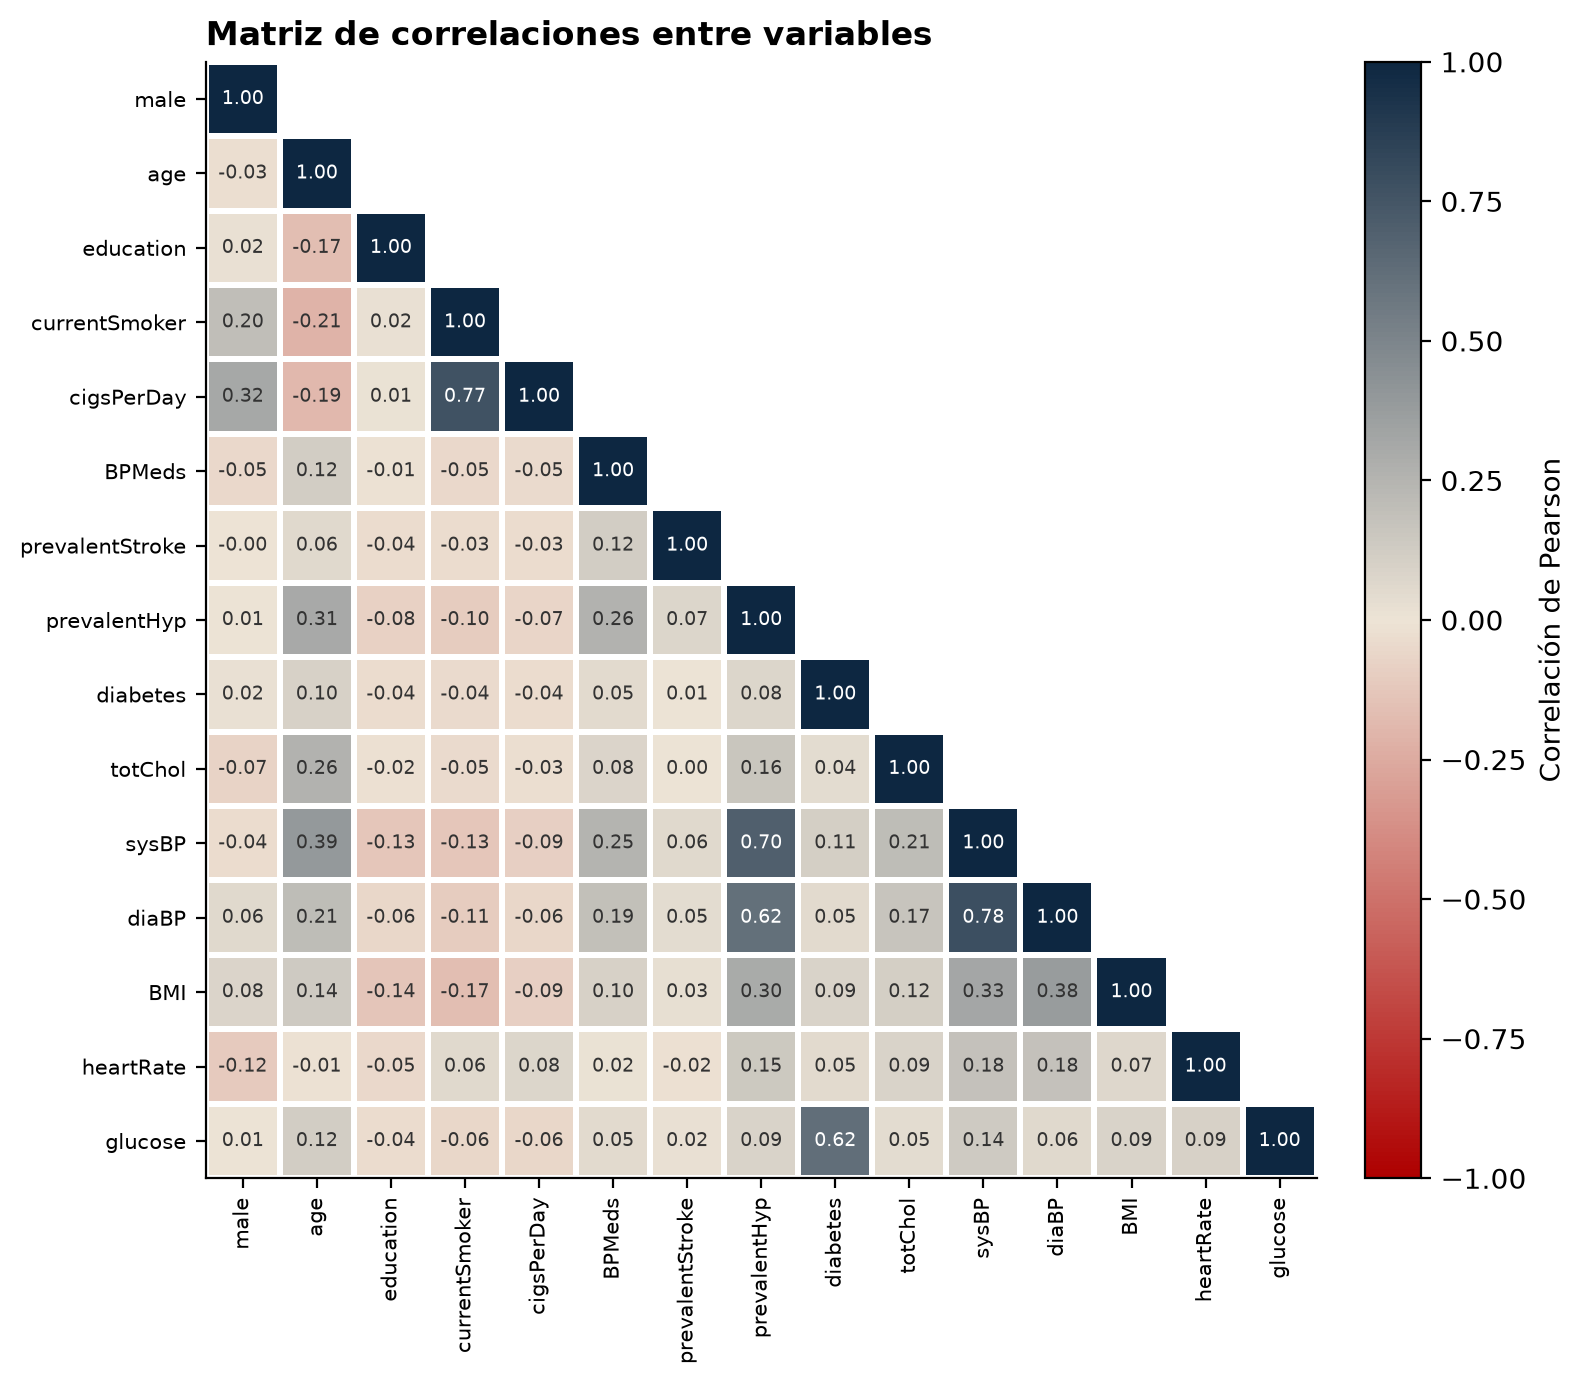
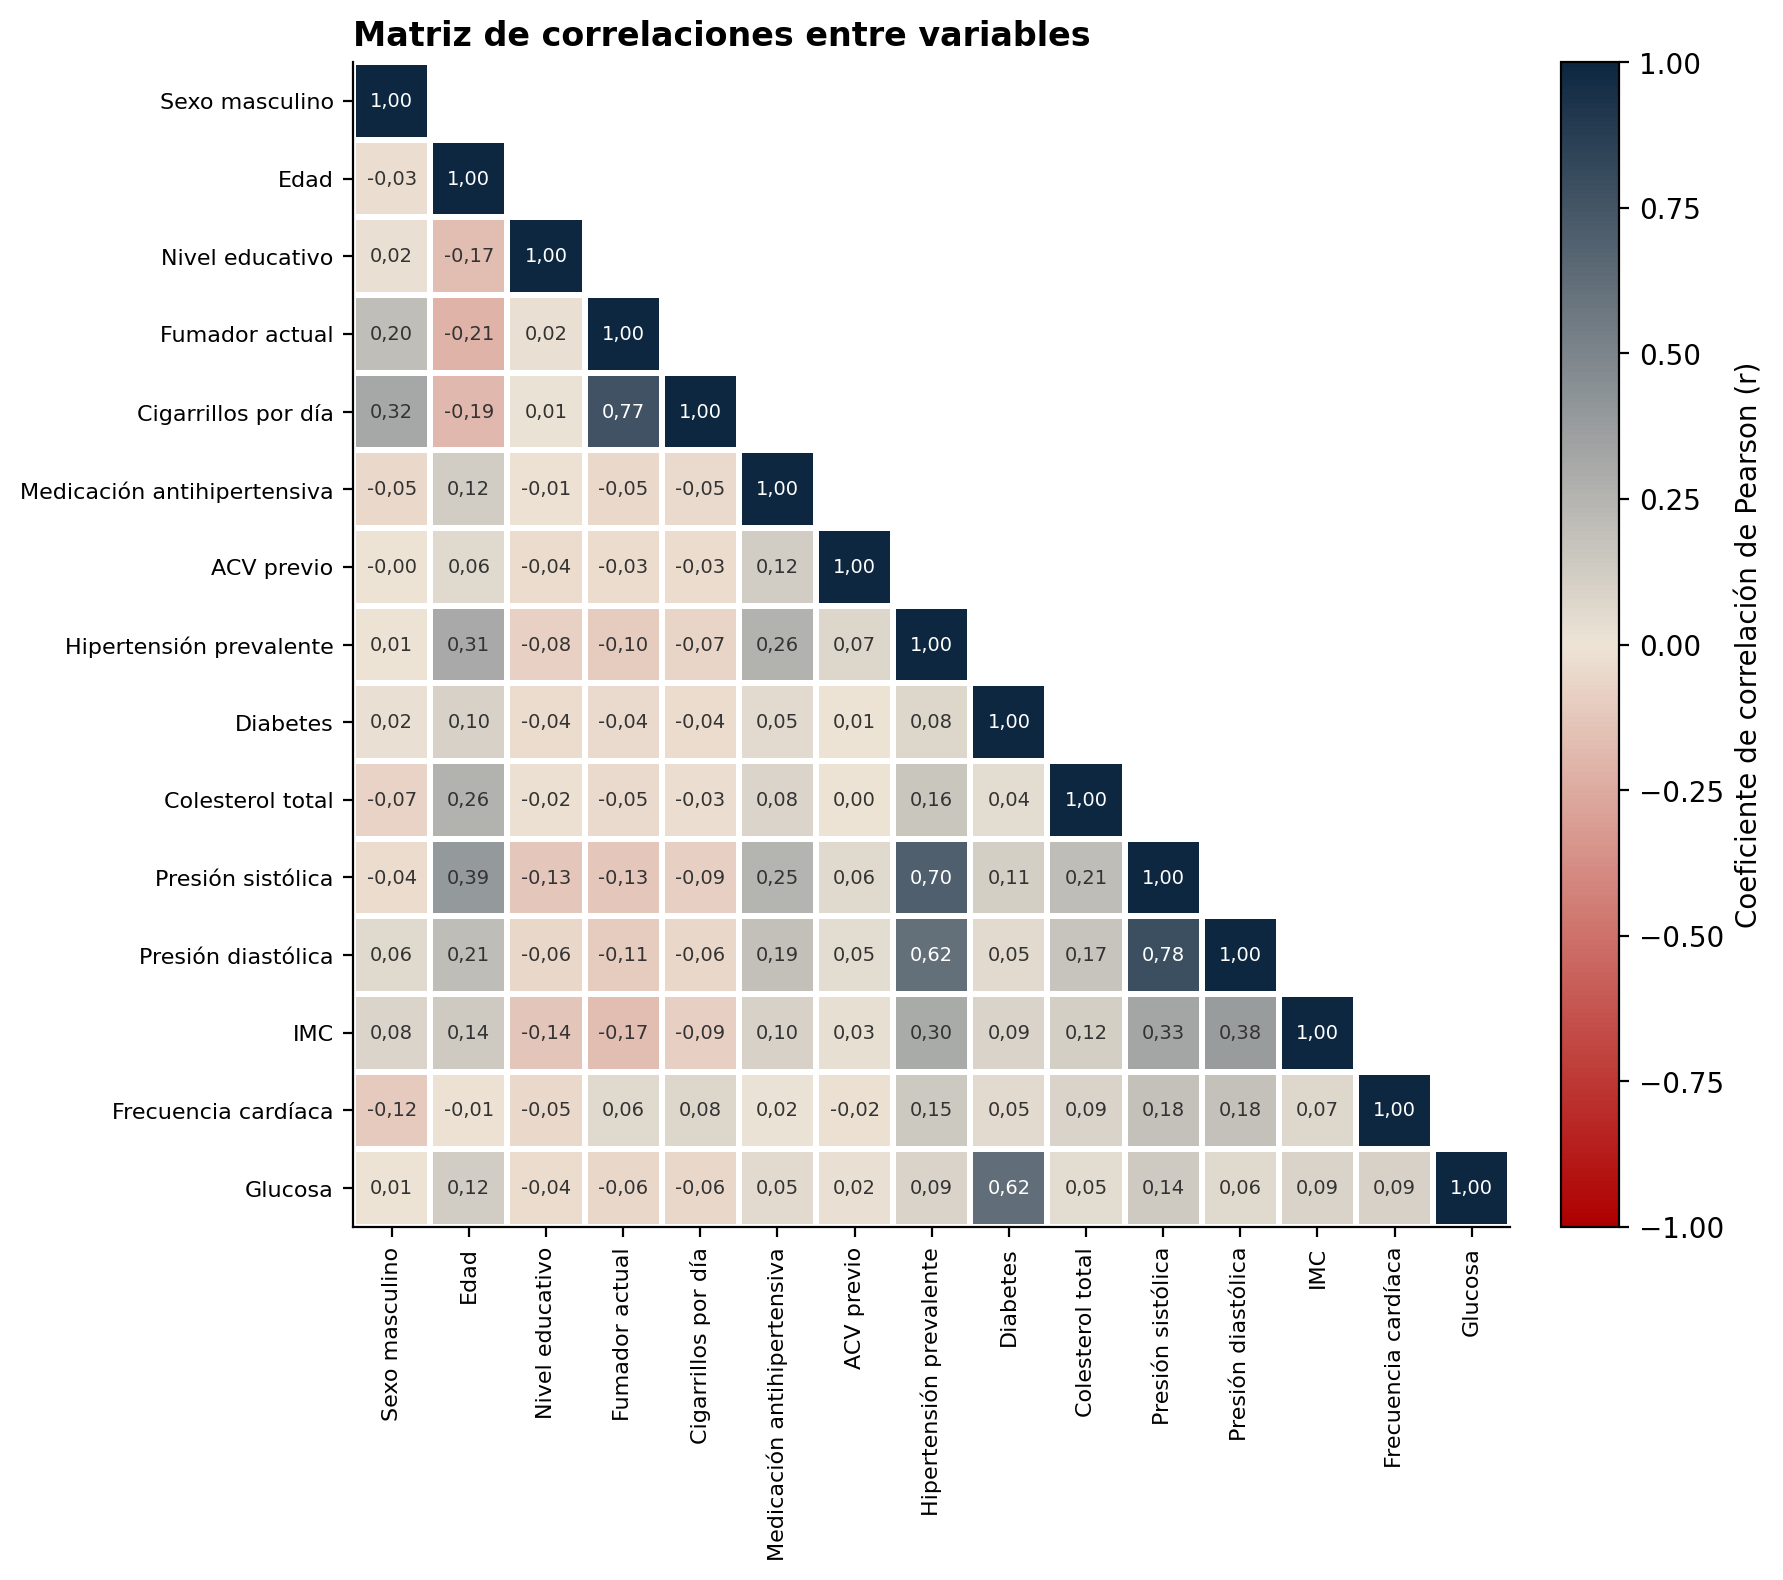
Formativa 1: figuras en español con leyendas, lecturas y referencias en el informe

diff --git a/redaccion/formativa-1-eda-inferencia/informe.tex b/redaccion/formativa-1-eda-inferencia/informe.tex
@@ -9,6 +9,7 @@
 \usepackage{array}
 \usepackage{enumitem}
 \usepackage{graphicx}
+\usepackage{float}
 \usepackage{xcolor}
 \usepackage{titlesec}
 \usepackage{fancyhdr}
@@ -64,7 +65,7 @@
 \newcommand{\proyIntegrantes}{Felipe Díaz Toro, Pablo Ríos Passteni, Guillermo Subiabre Chacón, Ninoska Yévenes Hernández}
 \newcommand{\proyDataset}{Framingham Heart Study (Riesgo Cardiovascular)}
 \newcommand{\proyDocente}{Jean Paul Maidana}
-\newcommand{\proyFecha}{08/10/2026}
+\newcommand{\proyFecha}{09/10/2026}
 \newcommand{\proyRepo}{\url{https://github.com/fdiaztoro/proyecto-grupo3-mcdi501}}
 
 \setlength{\parindent}{0pt}
@@ -147,7 +148,7 @@ numéricas continuas o cuasi-continuas (edad, colesterol total, presión sistól
 que su media se interpreta como una proporción. La Tabla~\ref{tab:descriptivos} resume la tendencia
 central y la dispersión de las variables numéricas.
 
-\begin{table}[htbp]
+\begin{table}[H]
 \centering
 \caption{Medidas descriptivas de las variables numéricas (calculadas con los datos disponibles de cada variable).}
 \label{tab:descriptivos}
@@ -174,7 +175,9 @@ colesterol total, la presión sistólica y la glucosa tienen la media por sobre 
 mediana es 0 y la media 9{,}0: más de la mitad de los participantes no fuma, y la media la elevan
 los fumadores intensos (hasta 70 cigarrillos diarios).
 
-\begin{table}[htbp]
+La Tabla~\ref{tab:dispersion} agrega el rango intercuartílico, el coeficiente de variación y la asimetría de cada variable, y la Tabla~\ref{tab:binarias} resume las variables binarias.
+
+\begin{table}[H]
 \centering
 \caption{Dispersión y forma de las variables numéricas.}
 \label{tab:dispersion}
@@ -199,7 +202,7 @@ por valores extremos. El colesterol, la presión sistólica y el IMC muestran as
 derecha, lo que respalda usar la mediana como referencia. Los cigarrillos por día tienen el mayor
 coeficiente de variación (132\,\%): muchas personas no fuman y unas pocas fuman mucho.
 
-\begin{table}[htbp]
+\begin{table}[H]
 \centering
 \caption{Variables binarias y tasa de CHD a 10 años según el atributo.}
 \label{tab:binarias}
@@ -233,7 +236,7 @@ menos un dato faltante, que es lo que se perdería al eliminar filas incompletas
 extremos según la regla de Tukey van de 1{,}3\,\% (colesterol) a 4{,}9\,\% (glucosa) de las
 observaciones. No hay inconsistencias entre variables relacionadas: ninguna presión diastólica supera a la sistólica y el hábito de fumar es coherente con los cigarrillos por día.
 
-\begin{figure}[htbp]
+\begin{figure}[H]
 \centering
 \includegraphics[width=\linewidth]{figuras/fig_panorama.png}
 \caption{(a) Distribución de la variable objetivo. (b) Porcentaje de datos faltantes por variable.}
@@ -246,7 +249,7 @@ que evaluar los modelos futuros con métricas sensibles a la clase minoritaria. 
 que los faltantes son pocos salvo en la glucosa (9{,}2\,\%) y la educación (2{,}5\,\%); el resto no
 supera el 1{,}3\,\%.
 
-\begin{figure}[htbp]
+\begin{figure}[H]
 \centering
 \includegraphics[width=\linewidth]{figuras/fig_distribuciones.png}
 \caption{Distribución de tres variables cuantitativas representativas, con su media o mediana de referencia.}
@@ -259,9 +262,9 @@ asimétricos a la derecha, con la mediana (234 mg/dL y 128 mmHg) por debajo de l
 valores altos. Por eso en esas dos variables se usa la mediana como referencia, y el colesterol se
 recorta al percentil 99 solo para efectos de visualización (los cálculos usan todos los datos).
 
-\begin{figure}[htbp]
+\begin{figure}[H]
 \centering
-\includegraphics[width=0.85\linewidth]{figuras/fig_correlacion.png}
+\includegraphics[width=0.85\linewidth,height=10cm,keepaspectratio]{figuras/fig_correlacion.png}
 \caption{Matriz de correlaciones entre las variables predictoras (triángulo inferior).}
 \label{fig:correlacion}
 \end{figure}
@@ -282,7 +285,7 @@ aproximación normal que justifica el Teorema Central del Límite: $\bar{x} \pm 
 con $EE = s/\sqrt{n}$ para las medias, y $\hat{p} \pm z_{0{,}975}\cdot\sqrt{\hat{p}(1-\hat{p})/n}$
 para la proporción. La Tabla~\ref{tab:ic} resume los valores.
 
-\begin{table}[htbp]
+\begin{table}[H]
 \centering
 \caption{Estimación puntual e intervalos de confianza al 95\,\%.}
 \label{tab:ic}
@@ -331,7 +334,7 @@ $$H_0:\ \text{hipertensión prevalente y CHD son independientes} \qquad \text{vs
 La frecuencia esperada mínima es 200, muy por encima del umbral de 5, así que el supuesto de la
 prueba se cumple. La asociación es significativa ($\chi^2=132{,}6$; $\text{gl}=1$; $p<0{,}0001$; sin corrección de continuidad, $\chi^2=133{,}7$, mismo resultado), con una intensidad débil a moderada ($V$ de Cramér $=0{,}18$).
 
-\begin{figure}[htbp]
+\begin{figure}[H]
 \centering
 \includegraphics[width=0.75\linewidth]{figuras/fig_hipertension.png}
 \caption{Tasa de CHD a 10 años según hipertensión prevalente, con la media global de referencia.}
